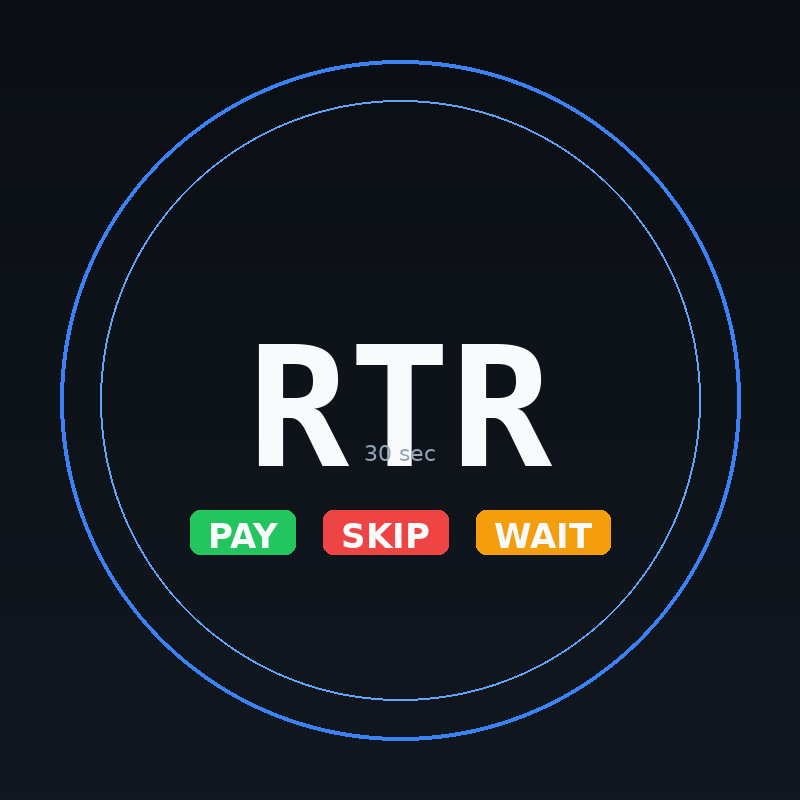
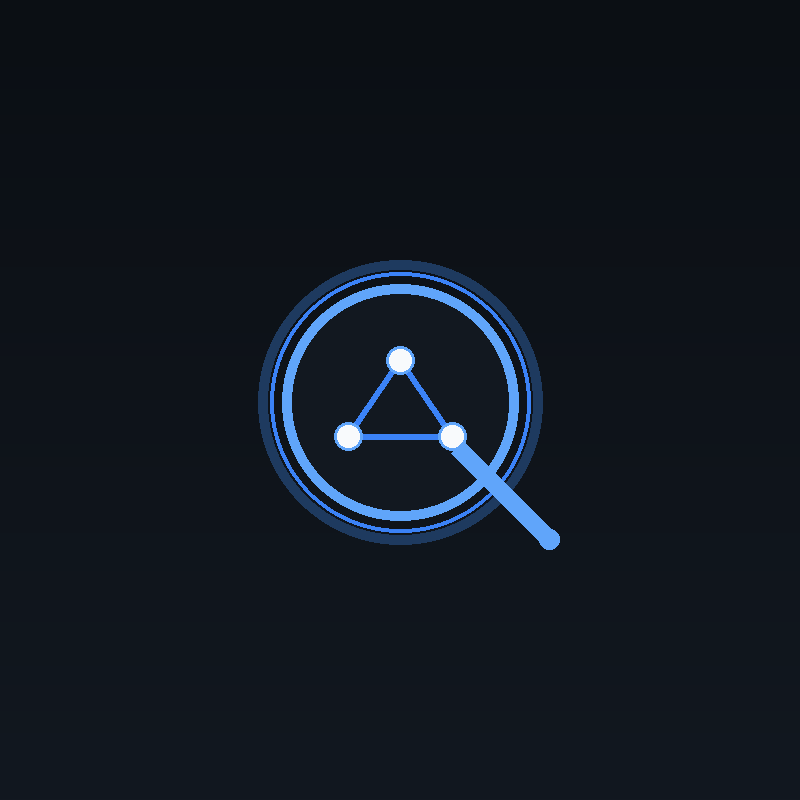
Generate AI magnifier profile picture for channel pfp
Universal mark: magnifying glass over 3-node network on dark background.
Signals AI review without tying to one product or RTR wordmark.

diff --git a/shorts_bot/brand/assets.py b/shorts_bot/brand/assets.py
@@ -2,6 +2,7 @@
 
 from __future__ import annotations
 
+import math
 from pathlib import Path
 
 ASSETS_DIR = Path("channel/brand/assets")
@@ -94,8 +95,69 @@ def _draw_verdict_pills(draw, cx: int, y: int, font, *, gap: int = 28) -> None:
         x += bw + gap
 
 
+def _draw_ai_review_mark(draw, cx: int, cy: int, *, scale: float = 1.0) -> None:
+    """Universal AI signal: magnifying glass over a 3-node network (not one brand)."""
+    s = scale
+    lens_r = int(118 * s)
+    lens_cx, lens_cy = cx, cy - int(18 * s)
+
+    # Soft outer glow rings
+    for r_off, color, width in (
+        (int(24 * s), "#1E3A5F", int(10 * s)),
+        (int(12 * s), ACCENT, int(4 * s)),
+    ):
+        r = lens_r + r_off
+        draw.ellipse(
+            [lens_cx - r, lens_cy - r, lens_cx + r, lens_cy + r],
+            outline=color,
+            width=max(1, width),
+        )
+
+    # Lens fill + ring
+    draw.ellipse(
+        [lens_cx - lens_r, lens_cy - lens_r, lens_cx + lens_r, lens_cy + lens_r],
+        fill=_hex_rgb(BG_MID),
+        outline=_hex_rgb(ACCENT_BRIGHT),
+        width=max(2, int(10 * s)),
+    )
+
+    # Neural nodes inside lens (triangle layout)
+    node_r = max(2, int(14 * s))
+    nodes = [
+        (lens_cx, lens_cy - int(42 * s)),
+        (lens_cx - int(52 * s), lens_cy + int(34 * s)),
+        (lens_cx + int(52 * s), lens_cy + int(34 * s)),
+    ]
+    for i, j in ((0, 1), (0, 2), (1, 2)):
+        draw.line([nodes[i], nodes[j]], fill=_hex_rgb(ACCENT), width=max(2, int(6 * s)))
+    for nx, ny in nodes:
+        draw.ellipse(
+            [nx - node_r, ny - node_r, nx + node_r, ny + node_r],
+            fill=_hex_rgb(TEXT_PRIMARY),
+            outline=_hex_rgb(ACCENT_BRIGHT),
+            width=max(1, int(3 * s)),
+        )
+
+    # Handle — bottom-right from lens
+    angle = math.radians(38)
+    hx0 = lens_cx + int(lens_r * 0.62 * math.cos(angle))
+    hy0 = lens_cy + int(lens_r * 0.62 * math.sin(angle))
+    hx1 = hx0 + int(92 * s)
+    hy1 = hy0 + int(92 * s)
+    draw.line(
+        [(hx0, hy0), (hx1, hy1)],
+        fill=_hex_rgb(ACCENT_BRIGHT),
+        width=max(3, int(18 * s)),
+    )
+    cap = max(2, int(10 * s))
+    draw.ellipse(
+        [hx1 - cap, hy1 - cap, hx1 + cap, hy1 + cap],
+        fill=_hex_rgb(ACCENT_BRIGHT),
+    )
+
+
 def generate_profile_image(out_path: Path | None = None) -> Path:
-    """800×800 profile — RTR monogram, readable at avatar size."""
+    """800×800 profile — AI magnifier mark, readable at YouTube avatar size."""
     from PIL import Image, ImageDraw
 
     out = out_path or PROFILE_PATH
@@ -104,23 +166,7 @@ def generate_profile_image(out_path: Path | None = None) -> Path:
     img = Image.new("RGB", (size, size), BG_TOP)
     _vertical_gradient(img, BG_TOP, BG_MID)
     draw = ImageDraw.Draw(img)
-    cx, cy = size // 2, size // 2
-
-    for r, color, width in ((340, ACCENT, 4), (300, ACCENT_BRIGHT, 2)):
-        draw.ellipse([cx - r, cy - r, cx + r, cy + r], outline=color, width=width)
-
-    _, _, _, font_mono = _load_fonts(28, 24, 20, mono_lg=168)
-    mark = "RTR"
-    tw = draw.textlength(mark, font=font_mono) if hasattr(draw, "textlength") else 200
-    draw.text((cx - tw / 2, cy - 90), mark, fill=TEXT_PRIMARY, font=font_mono)
-
-    _, font_md, font_sm, _ = _load_fonts(28, 34, 22)
-    sub = "30 sec"
-    sw = draw.textlength(sub, font=font_sm) if hasattr(draw, "textlength") else 80
-    draw.text((cx - sw / 2, cy + 40), sub, fill=TEXT_MUTED, font=font_sm)
-
-    _draw_verdict_pills(draw, cx, cy + 110, font_md)
-
+    _draw_ai_review_mark(draw, size // 2, size // 2 + 20, scale=1.0)
     img.save(out, "PNG", optimize=True)
     return out
 

diff --git a/channel/brand/visual_identity.md b/channel/brand/visual_identity.md
@@ -22,9 +22,10 @@
 
 ## Logo / profile
 
-- **Mark:** **RTR** monogram (Rapid Tool Review)
-- **Subline on avatar:** `30 sec`
-- **Pills under mark:** PAY · SKIP · WAIT (small)
+- **Mark:** **AI magnifier** — magnifying glass over a 3-node network (universal AI + review; not one product logo)
+- **Colors:** dark `#0B0F14` background, blue `#3B82F6` accent on glass + nodes
+- **No text on profile** — must read at 48×48 px avatar size
+- **Banner** still carries full name + tagline + optional verdict pills
 
 Generate PNGs:
 ```bash